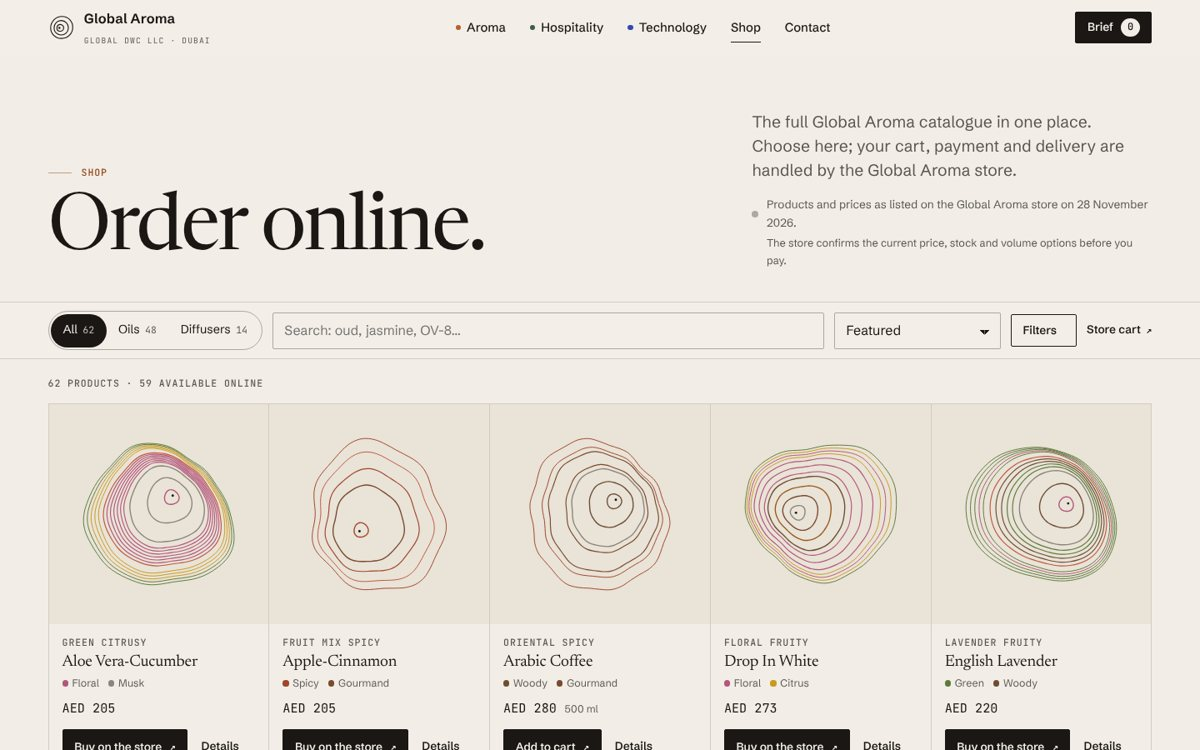
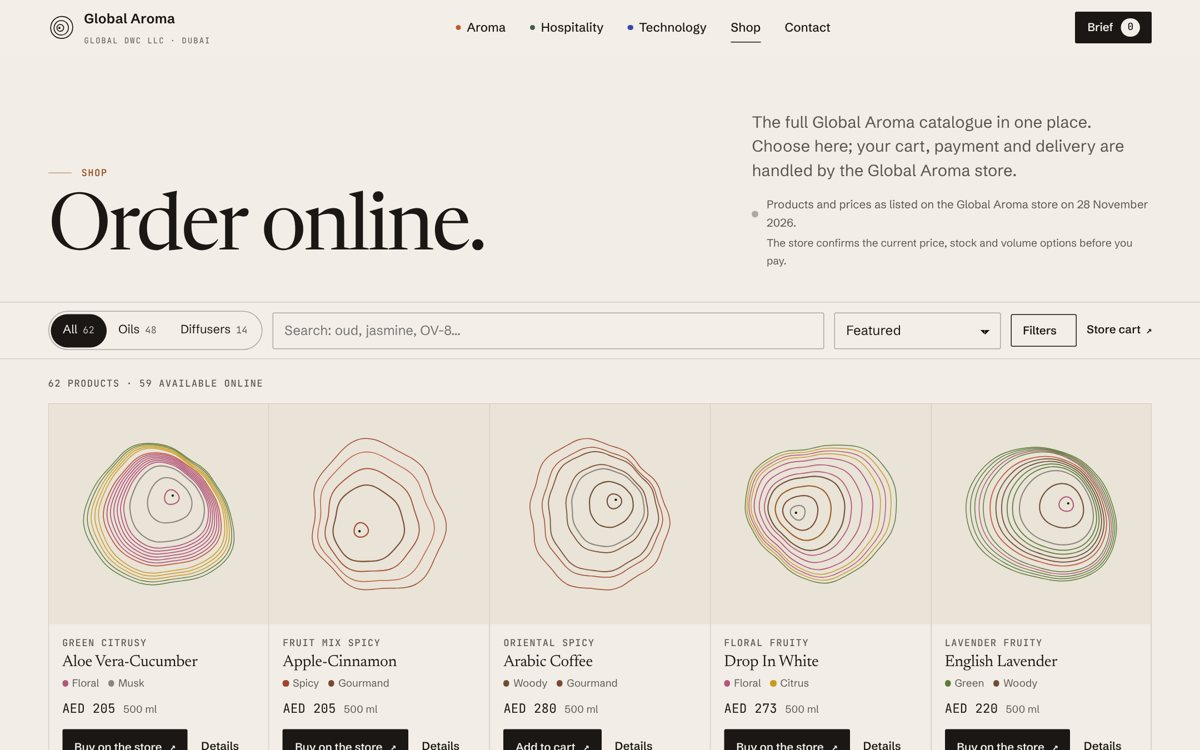
Proposal source and renderer; Shop shows only the volume the store offers; QA notes
- proposal/: the 12-slide Digital Experience Proposal (npm run proposal renders the PDF)
- Product cards and dialog show the volume offered online (500 ml) rather than every
  variation record, matching the store's product pages
- Review guide shop thumbnail refreshed; owner-demonstration QA added to docs/08

diff --git a/proposal/deck.css b/proposal/deck.css
@@ -1,0 +1,98 @@
+:root { --paper: #F2EEE7; --paper2: #E9E3D8; --ink: #1A1714; --soft: #4F4840; --mute: #6B6359; --saffron: #96491C; --juniper: #3E5C50; --lapis: #3149B0; --line: #CFC6B8; }
+body { font-family: 'Schibsted Grotesk', Arial, sans-serif; color: var(--ink); }
+section { padding: 128px; background: var(--paper); box-sizing: border-box; display: flex; flex-direction: column; }
+section.tint { background: var(--paper2); }
+section.dark { background: var(--ink); color: var(--paper); }
+h1, h2, h3 { font-family: 'Newsreader', Georgia, serif; font-weight: 400; color: var(--ink); margin: 0; }
+.dark h1, .dark h2, .dark h3 { color: var(--paper); }
+h1 { font-size: 112px; line-height: 1.0; letter-spacing: -3px; }
+h2 { font-size: 64px; line-height: 1.05; letter-spacing: -1.5px; }
+h3 { font-size: 40px; line-height: 1.12; letter-spacing: -0.5px; }
+p { font-size: 30px; line-height: 1.45; color: var(--soft); margin: 0; }
+.dark p { color: #CFC7BB; }
+.eyebrow { font-family: 'JetBrains Mono', 'Courier New', monospace; font-size: 24px; letter-spacing: 2px; color: var(--saffron); margin-bottom: 28px; }
+.dark .eyebrow { color: #E0A47A; }
+.small { font-size: 24px; color: var(--mute); }
+.dark .small { color: #B8AFA2; }
+.row { display: flex; gap: 64px; flex: 1; align-items: stretch; }
+.col { display: flex; flex-direction: column; gap: 28px; flex: 1; }
+.shot { border: 1px solid var(--line); background: var(--paper2); object-fit: cover; }
+.cards { display: grid; grid-template-columns: 1fr 1fr; gap: 0 56px; margin-top: 56px; }
+.card { border-top: 2px solid var(--ink); padding-top: 24px; padding-bottom: 36px; display: flex; flex-direction: column; gap: 12px; }
+.card p { font-size: 26px; }
+.trio { display: grid; grid-template-columns: 1fr 1fr 1fr; gap: 48px; margin-top: 48px; }
+.tri { border-top: 4px solid var(--ink); padding-top: 24px; display: flex; flex-direction: column; gap: 14px; }
+.tri.a { border-top-color: #B4612A; } .tri.h { border-top-color: var(--juniper); } .tri.t { border-top-color: var(--lapis); }
+.tri p { font-size: 26px; }
+.big { font-family: 'Newsreader', Georgia, serif; font-size: 96px; line-height: 1; color: var(--ink); letter-spacing: -2px; }
+.stat { border-top: 2px solid var(--ink); padding-top: 18px; display: flex; flex-direction: column; gap: 8px; }
+.stat .small { font-size: 24px; }
+.check { display: flex; flex-direction: column; gap: 0; margin-top: 40px; }
+.ck { display: flex; gap: 28px; align-items: baseline; border-top: 1px solid var(--line); padding: 20px 0; }
+.ck .n { font-family: 'JetBrains Mono', 'Courier New', monospace; font-size: 24px; color: var(--saffron); width: 60px; }
+.ck p { font-size: 28px; color: var(--ink); }
+.ck .s { color: var(--mute); }
+.footer { position: absolute; left: 128px; bottom: 64px; width: 1664px; font-family: 'JetBrains Mono', 'Courier New', monospace; font-size: 24px; color: var(--mute); }
+.dark .footer { color: #A79E91; }
+.rise { animation: rise 700ms cubic-bezier(.22,1,.36,1) both; }
+.d1 { animation-delay: 120ms; } .d2 { animation-delay: 240ms; } .d3 { animation-delay: 360ms; }
+@keyframes rise { from { opacity: 0; transform: translateY(24px); } to { opacity: 1; transform: translateY(0); } }
+
+.vals { display: grid; grid-template-columns: 1fr 1fr 1fr; gap: 48px; margin-top: 56px; }
+.val { border-top: 4px solid var(--ink); padding-top: 24px; display: flex; flex-direction: column; gap: 16px; }
+.val.a { border-top-color: #B4612A; } .val.h { border-top-color: var(--juniper); } .val.t { border-top-color: var(--lapis); }
+.val .vn { font-family: 'JetBrains Mono', 'Courier New', monospace; font-size: 24px; color: var(--mute); }
+.val .vs { font-family: 'JetBrains Mono', 'Courier New', monospace; font-size: 24px; color: var(--saffron); border-top: 1px solid var(--line); padding-top: 14px; }
+.flow { display: flex; align-items: stretch; gap: 20px; margin-top: 64px; }
+.step { flex: 1; display: flex; flex-direction: column; gap: 14px; border-top: 4px solid #8C8276; padding-top: 22px; }
+.step .sn { font-family: 'JetBrains Mono', 'Courier New', monospace; font-size: 24px; color: #B8AFA2; }
+.step h3 { font-size: 36px; }
+.step p { font-size: 24px; }
+.step.gap { border-top-color: #E0A47A; }
+.step.gap .sn { color: #E0A47A; }
+.arrow { flex: 0 0 36px; display: flex; align-items: center; padding-top: 30px; }
+.legend { display: flex; gap: 48px; margin-top: 56px; }
+.legend p { font-size: 24px; }
+.opt { border-top: 2px solid var(--ink); padding-top: 24px; display: flex; flex-direction: column; gap: 14px; flex: 1; }
+.opt.rec { border-top: 4px solid var(--saffron); }
+.opt .tag { font-family: 'JetBrains Mono', 'Courier New', monospace; font-size: 24px; color: var(--saffron); }
+.opt p { font-size: 26px; }
+.cap { font-size: 24px; color: var(--mute); }
+.demo { font-family: 'JetBrains Mono', 'Courier New', monospace; font-size: 24px; color: #7A5A12; background: #F3E2B3; padding: 6px 14px; align-self: flex-start; }
+.chip { font-family: 'JetBrains Mono', 'Courier New', monospace; font-size: 24px; color: #5B4310; background: #F3E2B3; padding: 6px 14px; }
+.stage { position: relative; flex: 1; }
+.lede { font-size: 32px; line-height: 1.4; color: var(--soft); }
+.vals2 { display: grid; grid-template-columns: 1fr 1fr 1fr; gap: 48px; margin-top: 56px; }
+.v2 { border-top: 4px solid var(--ink); padding-top: 24px; display: flex; flex-direction: column; gap: 16px; }
+.v2.a { border-top-color: #B4612A; } .v2.h { border-top-color: var(--juniper); } .v2.t { border-top-color: var(--lapis); }
+.v2 .vn { font-family: 'JetBrains Mono', 'Courier New', monospace; font-size: 24px; color: var(--mute); }
+.v2 .st { display: flex; flex-direction: column; gap: 4px; border-top: 1px solid var(--line); padding-top: 14px; }
+.v2 .st .k { font-family: 'JetBrains Mono', 'Courier New', monospace; font-size: 24px; color: var(--saffron); }
+.v2 .st p { font-size: 26px; color: var(--ink); }
+.panel { display: flex; flex-direction: column; gap: 14px; flex: 1; }
+.panel img { border: 1px solid var(--line); }
+.panel h3 { font-size: 34px; }
+.panel p { font-size: 26px; }
+.flow2 { display: flex; align-items: stretch; gap: 18px; margin-top: 56px; }
+.s2 { flex: 1; display: flex; flex-direction: column; gap: 14px; border-top: 4px solid #8C8276; padding-top: 22px; }
+.s2 .sn { font-family: 'JetBrains Mono', 'Courier New', monospace; font-size: 24px; color: #B8AFA2; }
+.s2 h3 { font-size: 34px; }
+.s2 p { font-size: 26px; }
+.s2.rep { border-top-color: #E0A47A; } .s2.rep .sn { color: #E0A47A; }
+.arr { flex: 0 0 32px; display: flex; align-items: center; padding-top: 34px; }
+.try { display: flex; align-items: center; gap: 28px; margin-top: 28px; flex-wrap: wrap; }
+.try p { font-size: 26px; color: var(--ink); }
+.try .tn { font-family: 'JetBrains Mono', 'Courier New', monospace; color: var(--saffron); }
+.cta { display: inline-block; font-family: 'Schibsted Grotesk', Arial, sans-serif; font-size: 26px; font-weight: 600; color: var(--paper); background: var(--ink); padding: 14px 24px; text-decoration: none; }
+.dark .cta { color: var(--ink); background: var(--paper); }
+.impl { display: grid; grid-template-columns: 1fr 1fr; gap: 0 64px; margin-top: 44px; }
+.im { border-top: 2px solid var(--ink); padding: 20px 0 30px; display: flex; flex-direction: column; gap: 10px; }
+.im p { font-size: 27px; }
+.next { display: grid; grid-template-columns: repeat(4, 1fr); gap: 24px; margin-top: 12px; }
+.nx { background: var(--paper2); padding: 22px 24px; display: flex; flex-direction: column; gap: 8px; }
+.nx .tn { font-family: 'JetBrains Mono', 'Courier New', monospace; font-size: 24px; color: var(--saffron); }
+.nx p { font-size: 27px; color: var(--ink); line-height: 1.3; }
+.links { display: flex; flex-direction: column; margin-top: 44px; }
+.lk { display: flex; align-items: baseline; justify-content: space-between; gap: 32px; border-top: 1px solid #4A423A; padding: 20px 0; text-decoration: none; }
+.lk h3 { font-size: 40px; }
+.lk .u { font-family: 'JetBrains Mono', 'Courier New', monospace; font-size: 24px; color: #E0A47A; text-decoration: underline; }

diff --git a/src/scripts/shop.ts b/src/scripts/shop.ts
@@ -142,7 +142,7 @@ function openProduct(id: number, from?: HTMLElement | null) {
   $('[data-pd-kind]').textContent = p.category === 'oils' ? (p.notes ? `Diffuser oil · ${p.notes.family}` : 'Diffuser oil') : 'Diffuser';
   $('[data-pd-title]').textContent = p.title;
   $('[data-pd-price]').textContent = p.purchasable && p.price ? fmt(p.price) : 'Price on request';
-  $('[data-pd-opt]').textContent = p.buy.option ? `· ${p.buy.option}` : '';
+  $('[data-pd-opt]').textContent = p.offered[0] ? `· ${p.offered[0]}` : '';
   $('[data-pd-stock]').textContent = '';
   $('[data-pd-sum]').textContent = p.summary ?? '';
   const notes = $('[data-pd-notes]');
@@ -159,10 +159,9 @@ function openProduct(id: number, from?: HTMLElement | null) {
     src.insertAdjacentHTML('beforeend', `<span class="pd-flag" style="display:block;margin-top:.5rem">These notes are the same as <b>${esc(p.collectionTitle)}</b> in the published collection. Global Aroma is confirming the listing.</span>`);
   } else if (flags.length) src.insertAdjacentHTML('beforeend', `<span class="pd-flag" style="display:block;margin-top:.5rem">${esc(flags[0])}</span>`);
   const vols = $('[data-pd-vols]');
-  const labelled = p.volumes.filter((v) => v.volume);
-  vols.innerHTML = labelled.length
-    ? '<span class="label label-muted" style="width:100%">Volume options listed on the store</span>' + labelled.map((v) => `<span class="pd-vol">${esc(v.volume!)}</span>`).join('')
-      + (p.buy.cartUrl ? '' : '<span class="pd-vol-note">Choose the volume on the store, which shows its price and availability.</span>')
+  vols.innerHTML = p.offered.length
+    ? '<span class="label label-muted" style="width:100%">Volume offered online</span>' + p.offered.map((v) => `<span class="pd-vol">${esc(v)}</span>`).join('')
+      + (p.buy.cartUrl ? '' : '<span class="pd-vol-note">Select it on the store, which confirms the price and availability.</span>')
     : '';
   const cart = $<HTMLAnchorElement>('[data-pd-cart]');
   cart.hidden = !(p.purchasable && p.buy.cartUrl);

diff --git a/proposal/slides/ordering.html b/proposal/slides/ordering.html
@@ -1,0 +1,20 @@
+<section id="ordering" class="dark">
+<p class="eyebrow">IMPROVING THE ORDERING EXPERIENCE</p>
+<h2>Better order visibility, without replacing your store.</h2>
+<div class="flow2">
+<div class="s2"><p class="sn">1</p><h3>Customer selects a product</h3><p>On the new website or the store</p></div>
+<div class="arr"><x-shape kind="arrow-right" style="background:#8C8276;width:32px;height:26px"></x-shape></div>
+<div class="s2"><p class="sn">2</p><h3>Existing WooCommerce checkout</h3><p>Payment and confirmation stay as they are</p></div>
+<div class="arr"><x-shape kind="arrow-right" style="background:#8C8276;width:32px;height:26px"></x-shape></div>
+<div class="s2"><p class="sn">3</p><h3>Order record</h3><p>WooCommerce stores the customer, items, amount and time as standard</p></div>
+<div class="arr"><x-shape kind="arrow-right" style="background:#E0A47A;width:32px;height:26px"></x-shape></div>
+<div class="s2 rep"><p class="sn">4</p><h3>Staff notification</h3><p>Reported: alerts not reliably received</p></div>
+<div class="arr"><x-shape kind="arrow-right" style="background:#E0A47A;width:32px;height:26px"></x-shape></div>
+<div class="s2 rep"><p class="sn">5</p><h3>Staff reviews the order</h3><p>Reported: order details hard to see</p></div>
+</div>
+<div style="display:flex;gap:48px;margin-top:48px">
+<p style="font-size:26px"><span style="color:#B8AFA2">■</span> Standard WooCommerce capability</p>
+<p style="font-size:26px"><span style="color:#E0A47A">■</span> What your team has reported</p>
+</div>
+<p style="font-size:28px;margin-top:28px;width:1500px">An authorised review of the store’s settings, with your team, would confirm the cause before anything changes. We would then improve alerts and visibility within your current store.</p>
+</section>

diff --git a/proposal/slides/social.html b/proposal/slides/social.html
@@ -1,0 +1,20 @@
+<section id="social" class="tint">
+<div class="row" style="gap:48px">
+<div class="col" style="flex:0 0 620px;justify-content:center;gap:24px">
+<p class="eyebrow" style="margin-bottom:0">SOCIAL IDENTITY</p>
+<h2>A social identity your team can use.</h2>
+<p class="lede">Ready-made designs for posts, stories and Reels, built from each fragrance’s signature.</p>
+<p class="lede">The Content Maker: choose a fragrance, a photograph and a format, edit the words, download.</p>
+<a class="cta" href="https://global-aroma-website.vercel.app/studio/make" style="align-self:flex-start">Try the Content Maker ↗</a>
+<p class="small">Shown with concept photography; your approved photographs and branding would be used. Posting and account management are not included.</p>
+</div>
+<div style="display:flex;flex-direction:column;gap:24px;flex:1">
+<div style="display:flex;gap:20px;align-items:flex-end">
+<img class="shot" src="IMG:ig-photo-arabic-coffee.jpg" alt="Photo post: Arabic Coffee with its signature" style="width:300px;height:375px;object-fit:cover">
+<img class="shot" src="IMG:ig-photo-royal-residence.jpg" alt="Photo post: A lobby people remember" style="width:300px;height:375px;object-fit:cover">
+<img class="shot" src="IMG:story-photo-hospitality.jpg" alt="Story: Every detail a guest touches" style="width:211px;height:375px;object-fit:cover">
+</div>
+<img class="shot" src="IMG:maker.jpg" alt="Content Maker: four steps beside a live preview" style="width:851px;height:425px;object-fit:cover;object-position:top">
+</div>
+</div>
+</section>

diff --git a/proposal/slides/value.html b/proposal/slides/value.html
@@ -1,0 +1,9 @@
+<section id="value">
+<p class="eyebrow">THREE AREAS OF VALUE</p>
+<h2>One proposal, three things your business gains.</h2>
+<div class="vals2">
+<div class="v2 a"><p class="vn">01</p><h3>Customer website and Shop</h3><p>A premium website for all three divisions, where every store product is easy to find and buy through your existing store.</p><div class="st"><span class="k">IN THIS CONCEPT</span><p>A working website and full catalogue to explore</p></div><div class="st"><span class="k">IN THE IMPLEMENTATION</span><p>Your branding and photography, launched on your domain</p></div></div>
+<div class="v2 h"><p class="vn">02</p><h3>Staff order visibility</h3><p>Your team told about each new order, and able to see who ordered what, when, for how much, and its status.</p><div class="st"><span class="k">IN THIS CONCEPT</span><p>An interactive demonstration with sample orders</p></div><div class="st"><span class="k">IN THE IMPLEMENTATION</span><p>Set up with your store after a review together</p></div></div>
+<div class="v2 t"><p class="vn">03</p><h3>Social brand</h3><p>Recognisable posts for every fragrance, which your team can make without commissioning each design.</p><div class="st"><span class="k">IN THIS CONCEPT</span><p>Ready-made designs and a working Content Maker</p></div><div class="st"><span class="k">IN THE IMPLEMENTATION</span><p>Your approved photography and branding throughout</p></div></div>
+</div>
+</section>

diff --git a/proposal/slides/divisions.html b/proposal/slides/divisions.html
@@ -1,0 +1,9 @@
+<section id="divisions" class="tint">
+<p class="eyebrow">THREE DIVISIONS, ONE IDENTITY</p>
+<h2>Each division has its own voice, within one group.</h2>
+<div style="display:flex;gap:40px;margin-top:48px">
+<div class="panel"><img src="IMG:aroma.jpg" alt="Global Aroma page: A space people remember, with a fragrance signature" style="width:528px;height:330px;object-fit:cover"><h3 style="border-top:4px solid #B4612A;padding-top:16px">Global Aroma</h3><p>Lines that flow like air. Fragrances, diffusers and signature scents.</p></div>
+<div class="panel"><img src="IMG:hospitality.jpg" alt="Global Hospitality page: Every detail a guest touches, with a woven pattern" style="width:528px;height:330px;object-fit:cover"><h3 style="border-top:4px solid #3E5C50;padding-top:16px">Global Hospitality</h3><p>A woven grid. Linen, amenities and supplies for hotels and residences.</p></div>
+<div class="panel"><img src="IMG:technology.jpg" alt="Global Technology page: Systems that keep a building connected, with signal lines" style="width:528px;height:330px;object-fit:cover"><h3 style="border-top:4px solid #3149B0;padding-top:16px">Global Technology</h3><p>Signal lines. Connectivity, digital signage and integrated systems.</p></div>
+</div>
+</section>

diff --git a/proposal/slides/proposal.html b/proposal/slides/proposal.html
@@ -1,0 +1,17 @@
+<section id="proposal">
+<p class="eyebrow">PROPOSED IMPLEMENTATION</p>
+<h2>What we would build with you.</h2>
+<div class="impl">
+<div class="im"><h3>Redesigned website</h3><p>Your logo, photography and approved wording across all three divisions, launched on your domain.</p></div>
+<div class="im"><h3>Catalogue and purchasing</h3><p>Every product presented clearly, with purchasing through your existing store.</p></div>
+<div class="im"><h3>Order visibility and notifications</h3><p>Reviewed with your team and improved within your current store, with a staff view like the demonstration if useful.</p></div>
+<div class="im"><h3>Social branding</h3><p>Your photography in reusable templates, and the Content Maker for your team.</p></div>
+</div>
+<p class="eyebrow" style="margin-top:24px;margin-bottom:16px">NEXT STEPS</p>
+<div class="next">
+<div class="nx"><span class="tn">01</span><p>Share your feedback on the concept</p></div>
+<div class="nx"><span class="tn">02</span><p>Agree the scope that suits you</p></div>
+<div class="nx"><span class="tn">03</span><p>Confirm your official branding and photography</p></div>
+<div class="nx"><span class="tn">04</span><p>Arrange an authorised review of the store</p></div>
+</div>
+</section>

diff --git a/proposal/slides/explore.html b/proposal/slides/explore.html
@@ -1,0 +1,13 @@
+<section id="explore" class="dark">
+<p class="eyebrow">EXPLORE THE DEMONSTRATION</p>
+<h2>See it for yourself.</h2>
+<div class="links">
+<a class="lk" href="https://global-aroma-website.vercel.app/"><h3>The website</h3><span class="u">global-aroma-website.vercel.app</span></a>
+<a class="lk" href="https://global-aroma-website.vercel.app/shop"><h3>Shop</h3><span class="u">/shop</span></a>
+<a class="lk" href="https://global-aroma-website.vercel.app/aroma#finder-sec"><h3>Fragrance discovery</h3><span class="u">/aroma</span></a>
+<a class="lk" href="https://global-aroma-website.vercel.app/staff-demo"><h3>Staff Workspace demonstration</h3><span class="u">/staff-demo</span></a>
+<a class="lk" href="https://global-aroma-website.vercel.app/studio/make"><h3>Social Content Maker</h3><span class="u">/studio/make</span></a>
+<a class="lk" href="https://global-aroma-website.vercel.app/review" style="border-bottom:1px solid #4A423A"><h3>Owner review guide</h3><span class="u">/review</span></a>
+</div>
+<p style="font-size:30px;margin-top:40px;width:1400px;color:#E6DFD4">We would welcome your feedback, and a conversation about tailoring this proposal to Global Aroma’s requirements.</p>
+</section>

diff --git a/proposal/slides/staff.html b/proposal/slides/staff.html
@@ -1,0 +1,13 @@
+<section id="staff">
+<div style="display:flex;align-items:baseline;gap:24px"><p class="eyebrow" style="margin-bottom:0">STAFF WORKSPACE</p><p class="chip">Demonstration · sample orders only</p></div>
+<h2 style="margin-top:24px">A clear view of every order.</h2>
+<div style="display:flex;gap:24px;margin-top:32px;align-items:flex-start">
+<img class="shot" src="IMG:staff-overview.jpg" alt="Staff Workspace: order list with counters and a new-order notification" style="width:819px;height:512px;object-fit:cover">
+<img class="shot" src="IMG:staff-detail.jpg" alt="Order details: customer, products with volume and quantity, totals, payment and history" style="width:364px;height:512px;object-fit:cover;object-position:top">
+<img class="shot" src="IMG:staff-email.jpg" alt="Example new-order email, marked example only" style="width:395px;height:512px;object-fit:cover;object-position:top">
+</div>
+<div class="try">
+<p><span class="tn">TRY IT</span>  Open the Staff Workspace → Simulate a new order → Open the order details → View the example notification</p>
+<a class="cta" href="https://global-aroma-website.vercel.app/staff-demo">Open the Staff Workspace ↗</a>
+</div>
+</section>

diff --git a/proposal/slides/cover.html b/proposal/slides/cover.html
@@ -1,0 +1,10 @@
+<section id="cover" class="dark" style="padding:0" data-transition="fade">
+<img src="IMG:cover.jpg" alt="A hotel lobby photograph with a fragrance signature drawn over it" style="position:absolute;left:0;top:0;width:1920px;height:1080px;object-fit:cover;opacity:0.55">
+<div style="position:absolute;left:128px;top:128px;width:1360px;display:flex;flex-direction:column;gap:32px">
+<p class="eyebrow rise">GLOBAL AROMA · DIGITAL EXPERIENCE PROPOSAL</p>
+<h1 class="rise d1" style="font-size:150px;letter-spacing:-4px">How a space feels.</h1>
+<p class="rise d2" style="font-size:36px;color:#E6DFD4;width:1120px">A redesigned website, a more practical way to shop, clearer visibility of every order for your team, and a coordinated social identity.</p>
+<p class="rise d3" style="font-size:28px;color:#CFC7BB;width:1120px">Prepared for the founders of Global DWC LLC: Global Aroma, Global Hospitality and Global Technology.</p>
+</div>
+<p class="footer" style="color:#D5CCC0">Proposal · November 2026 · A working concept for your review · <a href="https://global-aroma-website.vercel.app/" style="color:#F2C9A4">global-aroma-website.vercel.app</a></p>
+</section>

diff --git a/proposal/slides/discovery.html b/proposal/slides/discovery.html
@@ -1,0 +1,9 @@
+<section id="discovery">
+<p class="eyebrow">FRAGRANCE DISCOVERY</p>
+<h2>Visitors find a fragrance by how it should feel.</h2>
+<div style="display:flex;gap:40px;margin-top:48px">
+<div class="panel"><img src="IMG:finder.jpg" alt="Scent Finder: choose a feeling and see the closest fragrances" style="width:528px;height:360px;object-fit:cover;background:#1A1714"><h3>Scent Finder</h3><p>Choose a feeling, such as warm and welcoming, and see the closest fragrances by their published notes.</p></div>
+<div class="panel"><img src="IMG:map.jpg" alt="Scent Map: all 67 fragrances placed from fresh to warm and floral to woody" style="width:528px;height:360px;object-fit:cover"><h3>Scent Map</h3><p>All 67 fragrances placed from fresh to warm and floral to woody. Tap anywhere for the nearest four.</p></div>
+<div class="panel"><img src="IMG:library.jpg" alt="Fragrance library with signatures, search and filters" style="width:528px;height:360px;object-fit:cover;object-position:top"><h3>Fragrance library</h3><p>Search by note, such as oud or fig, filter by character, and open any fragrance for its full notes.</p></div>
+</div>
+</section>

diff --git a/proposal/slides/shop.html b/proposal/slides/shop.html
@@ -1,0 +1,13 @@
+<section id="shop" class="tint">
+<p class="eyebrow">THE SHOP</p>
+<h2>Every product, bought through your store.</h2>
+<div class="row" style="margin-top:40px;gap:56px">
+<img class="shot" src="IMG:shop-d.jpg" alt="Shop: diffuser oils with signatures, prices and Buy on the store buttons" style="width:1000px;height:625px;object-fit:cover">
+<div class="col" style="gap:26px">
+<div class="stat"><p class="big">62</p><p class="small">listings from the Global Aroma store, with search, filters, sorting and product details</p></div>
+<div class="stat"><h3>Buy online ↗</h3><p class="small">Purchases continue on globalaroma.me, which handles volume, checkout and payment as it does today.</p></div>
+<div class="stat"><h3>Request a quote</h3><p class="small">For unpriced items, larger volumes and projects.</p></div>
+<p class="small" style="font-size:24px">Products and prices as listed on the store on 28 November 2026. The store confirms current prices and stock.</p>
+</div>
+</div>
+</section>
